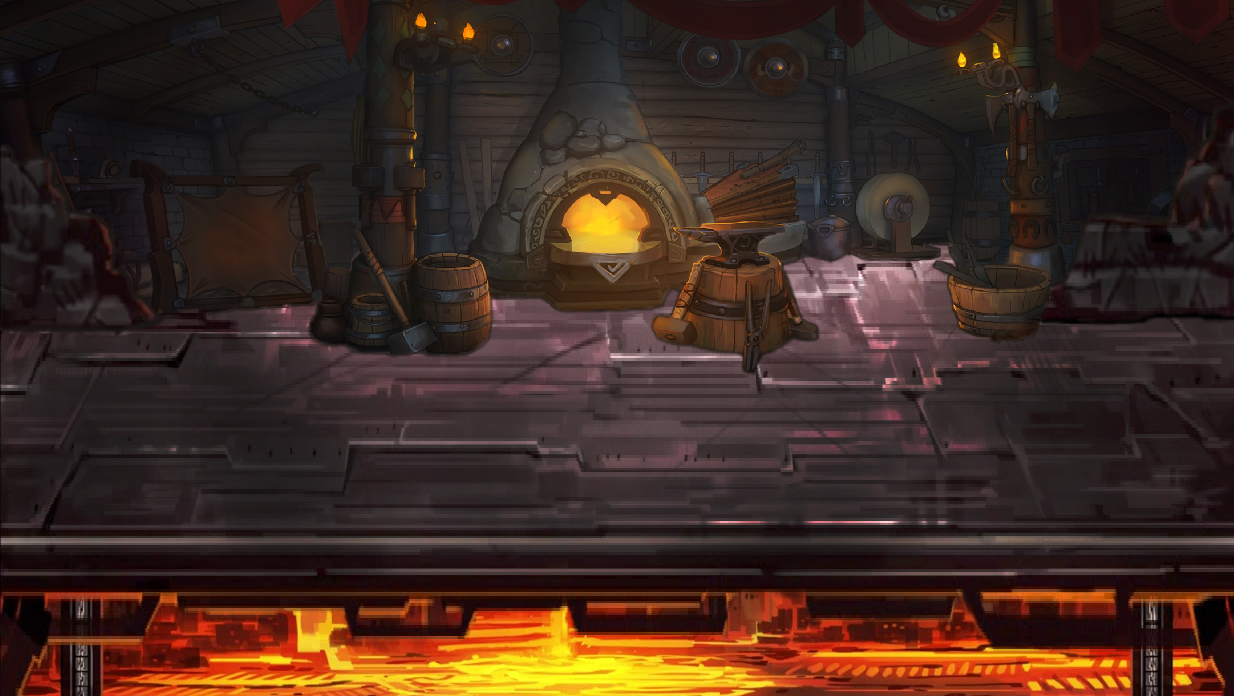
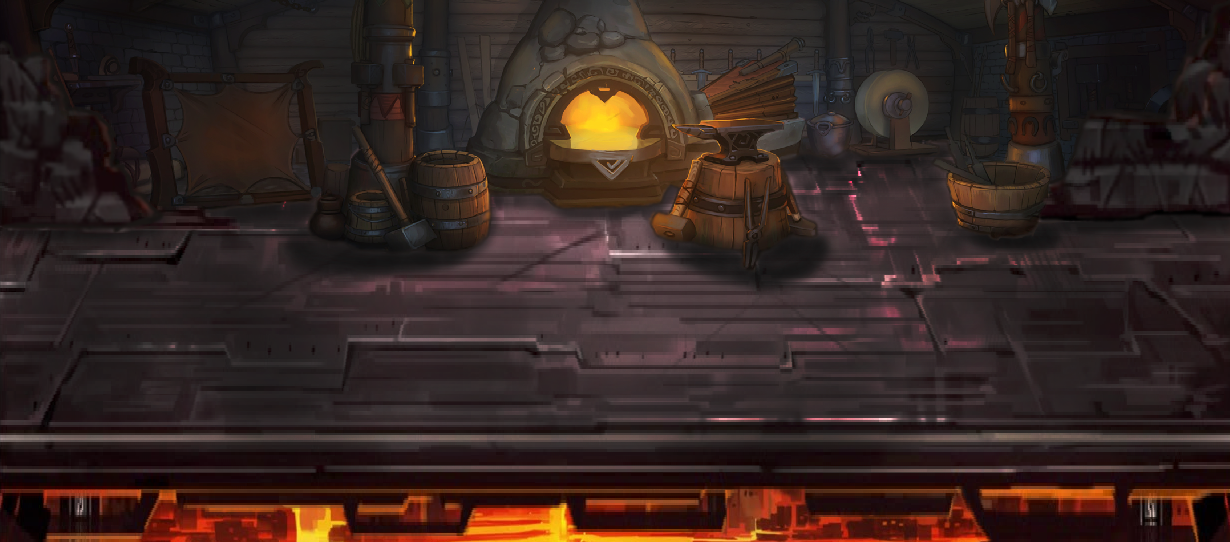
Fix typo in boss dialogue
And fix broken sounds

diff --git a/ReDungeon/Assets/Combat/Units/TheForgeMaster/TheForgeMaster.cs b/ReDungeon/Assets/Combat/Units/TheForgeMaster/TheForgeMaster.cs
@@ -58,12 +58,19 @@ public class TheForgeMaster : Unit
         { 
             if (Turn == 1)
             {
-                await Speak("Sorry, got lost in thaughts again. So, you've come to defeat me, have you? sorry, if I knew I had guests I would have prepared the place, but this option seems to be out of my reach for now, the architectural team has messed everything up... but at least I can recieve you properly myself. Also, press your mouse if you are done");
+                await Speak("Sorry, got lost in thoughts again. So, you've come to defeat me, have you? If I knew I had guests I would have prepared the place, but this option seems to be out of my reach for now, the architectural team has messed everything up... but at least I can recieve you properly myself. Press your mouse if you are done");
                 body.sprite.sprite = Instantiate(Resources.Load<Sprite>("TheForgeMaster/TheForgeMasterSnap2"));
-                await Task.Delay(1000);
+                await Task.Delay(800);
+                GameObject.FindGameObjectWithTag("AudioManager").GetComponent<AudioManager>().Play("Snap");
+                await Task.Delay(175);
                 body.sprite.sprite = Instantiate(Resources.Load<Sprite>("TheForgeMaster/TheForgeMasterSnap1"));
-                await Task.Delay(1000);
+                body.Manager.playerBasePositions[1].localPosition = new Vector3(-225,35,3);
+                body.Manager.playerBasePositions[2].localPosition = new Vector3(-250, -60, 1);
+                body.Manager.playerBasePositions[3].localPosition = new Vector3(-125, 30, 3);
+                body.Manager.playerBasePositions[4].localPosition = new Vector3(-125, -55, 1);
+                body.Manager.background.sprite = Instantiate(Resources.Load<Sprite>("TheForgeMaster/FinalBattle_Background"));
                 GameObject.FindGameObjectWithTag("AudioManager").GetComponent<AudioManager>().SmoothFadeAllTrackChange("FinalBattle_Phase2");
+                await Task.Delay(1000);
             }
         }
     }

diff --git a/ReDungeon/Assets/Combat/Passives/UndyingResolve.cs b/ReDungeon/Assets/Combat/Passives/UndyingResolve.cs
@@ -5,6 +5,7 @@ using UnityEngine;
 public class UndyingResolve : Passive
 {
     bool ready;
+    int overflowDamage = 0;
     public UndyingResolve()
     {
         triggers.Add(TriggerType.LateGetHurt); 
@@ -16,7 +17,8 @@ public class UndyingResolve : Passive
     }
     public override void LateGetHurt(UnitObject bearer, ref int damage)
     {
-        if (bearer.unit.CurrentHP <= damage && bearer.unit.maxHP > damage / 5.0)
+        bearer.Recoil -= 7;
+        if (bearer.unit.CurrentHP <= (damage + overflowDamage) && bearer.unit.maxHP > (damage + overflowDamage) / 5.0)
         {
             if (hidden)
             {
@@ -24,7 +26,8 @@ public class UndyingResolve : Passive
             }
             else
             {
-                bearer.unit.maxHP -= (damage - bearer.unit.CurrentHP + 1) / 5;
+                bearer.unit.maxHP -= ((damage + overflowDamage) - bearer.unit.CurrentHP + 1) / 5;
+                overflowDamage = (damage + overflowDamage) % 5;
             }
             damage = bearer.unit.CurrentHP - 1;
         }

diff --git a/ReDungeon/Assets/Combat/Actions/TheSword2.cs b/ReDungeon/Assets/Combat/Actions/TheSword2.cs
@@ -19,16 +19,19 @@ public class TheSword2 : Action
         acter.unit.sprites[3] = Resources.Load<Sprite>("TheForgeMaster/TheForgeMasterSword1");
         else
         acter.unit.sprites[3] = Resources.Load<Sprite>("TheForgeMaster/TheForgeMasterSword2");
+        tick = !tick;
         await acter.unit.Strike(target, 25, 31);
         if (tick)
             acter.unit.sprites[3] = Resources.Load<Sprite>("TheForgeMaster/TheForgeMasterSword1");
         else
             acter.unit.sprites[3] = Resources.Load<Sprite>("TheForgeMaster/TheForgeMasterSword2");
+        tick = !tick;
         await acter.unit.Strike(target, 25, 31);
         if (tick)
             acter.unit.sprites[3] = Resources.Load<Sprite>("TheForgeMaster/TheForgeMasterSword1");
         else
             acter.unit.sprites[3] = Resources.Load<Sprite>("TheForgeMaster/TheForgeMasterSword2");
+        tick = !tick;
         await acter.unit.Strike(target, 5, 11);
     }
     public override void SetDefaults()

diff --git a/ReDungeon/Assets/Combat/Statuses/Status.cs b/ReDungeon/Assets/Combat/Statuses/Status.cs
@@ -142,9 +142,9 @@ public abstract class Status
                     target.unit.PostCombat -= PostCombat;
                     break;
             }
-            OnClear(target);
-            target.statuses.Remove(this);
         }
+        OnClear(target);
+        target.statuses.Remove(this);
     }
     public abstract void RenewStatus(Status self);
     public virtual void OnSelfApply(UnitObject bearer) { }

diff --git a/ReDungeon/Assets/Combat/Actions/TheSword1.cs b/ReDungeon/Assets/Combat/Actions/TheSword1.cs
@@ -18,6 +18,7 @@ public class TheSword1 : Action
             acter.unit.sprites[3] = Resources.Load<Sprite>("TheForgeMaster/TheForgeMasterSword1");
         else
             acter.unit.sprites[3] = Resources.Load<Sprite>("TheForgeMaster/TheForgeMasterSword2");
+        tick = !tick;
         await acter.approach(target.transform, 0.95f, 0.1f);
         await acter.unit.Strike(target, 5, 11);
     }

diff --git a/ReDungeon/Assets/Combat/Statuses/Spear.cs b/ReDungeon/Assets/Combat/Statuses/Spear.cs
@@ -10,7 +10,7 @@ public class Spear : Status
     {
         name = "Spear";
         this.stack = stack;
-        description = $"The bearer can use signature move \"The Glaive\" until it breaks";
+        description = $"The bearer can use signature move \"The Spear\" until it breaks";
     }
     public override void OnSelfApply(UnitObject bearer)
     {

diff --git a/ReDungeon/Assets/Combat/Statuses/Sword.cs b/ReDungeon/Assets/Combat/Statuses/Sword.cs
@@ -10,7 +10,7 @@ public Sword(int stack)
 {
     name = "Sword";
     this.stack = stack;
-    description = $"The bearer can use signature move \"The Glaive\" until it breaks";
+    description = $"The bearer can use signature move \"The Sword\" until it breaks";
 }
 public override void OnSelfApply(UnitObject bearer)
 {
